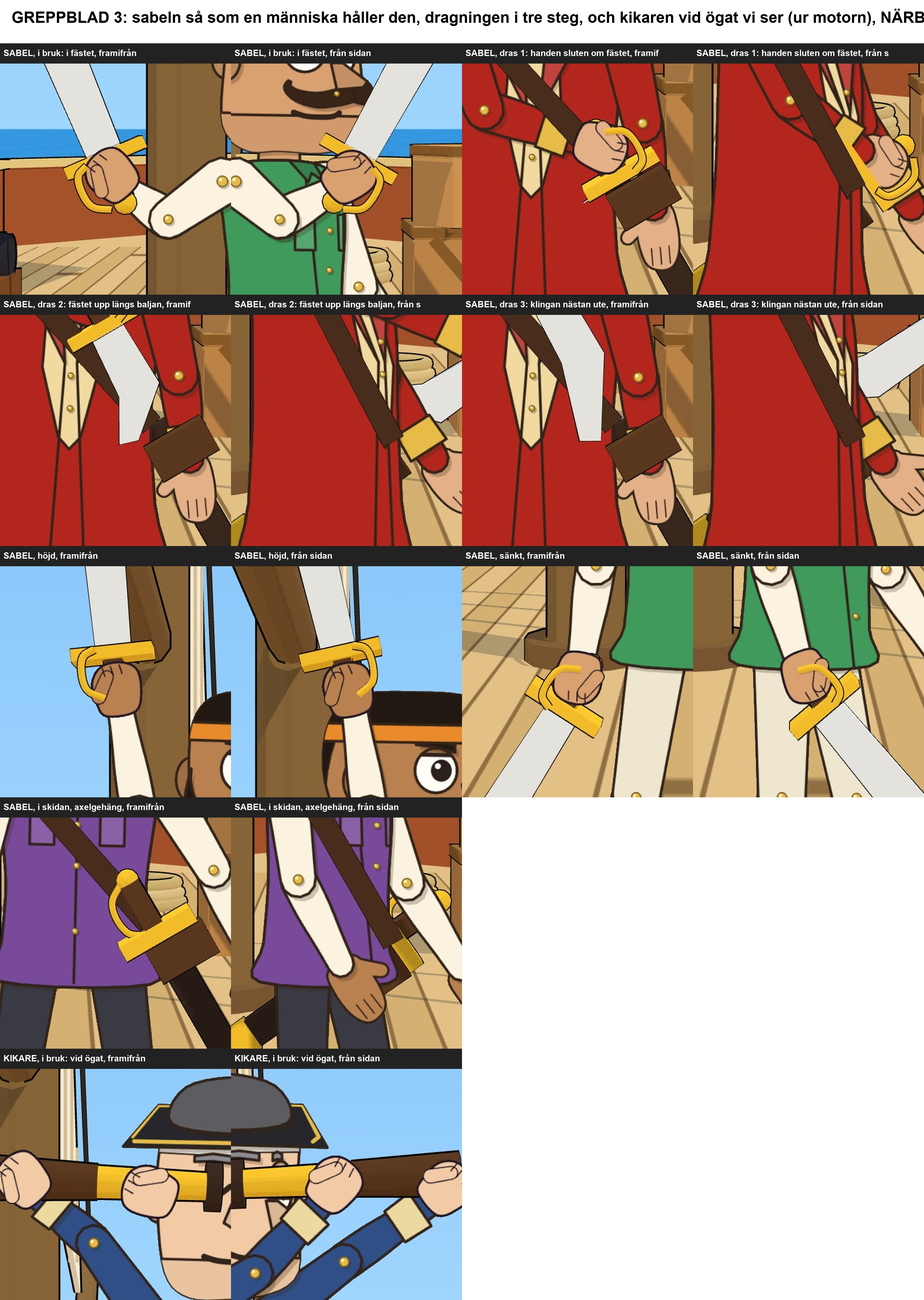
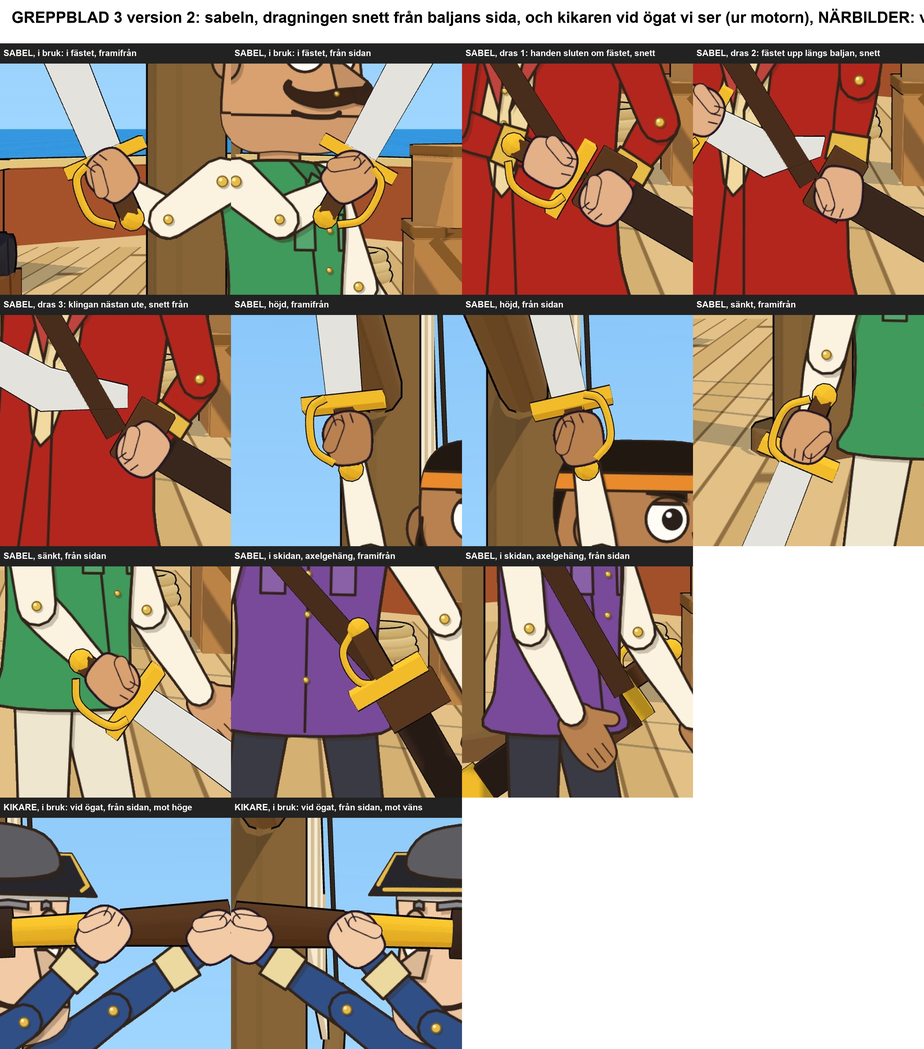
Grip sheet 3 version 2: the review's five points, each a rule in the shared code and a check in film_info grips
1. Spyglass: used only with the head turned to what he looks at (the front view is gone; the check rejects a figure seen from the
   front with the tube to his side). Drawing: seen from the front, an arm whose hand is at the face is drawn after the head, never
   behind it; an arm drawn behind the head or the body with its forearm hidden there is noted by the drawing, and the check fails
   any hand that holds something with such a forearm (the fist would float).
2./3. The draw: the other hand holds the scabbard below its throat and tips it toward level, the drawing hand comes up and forward
   along the sheath's line with the elbow lifted and the body turning and leaning back, the sabre lies on that line so the blade goes
   into the throat. Shown only at a slant from the scabbard's side; the check rejects a draw seen from the front (the hilt would
   come up past his face) or at the far hip (the blade would vanish into his body), a hand off the grip, the other hand off the
   scabbard, and a drawing hand within a fist's breadth of the face and beard.
4. A sabre's blade may not cross the outline of his legs in the picture (checked); the lowered sabre points down and forward.
5. The pommel shows beyond the fist with the knuckle bow fixed to it (grip lengthened to the drawn hand; checked for every use).
   The scabbard is wide enough to hide the blade's root (no sliver at the throat).
[…]

diff --git a/engine/src/craft/stage/grips.ts b/engine/src/craft/stage/grips.ts
@@ -6,7 +6,7 @@
 import * as THREE from "three";
 import type { Film, Cam, V3, Staged } from "./film";
 import { mix3 } from "./film";
-import { grip, palm, fingers, eyeOf, span, near, aside } from "./staging";
+import { grip, palm, fingers, eyeOf, span, near, aside, UNSEEN } from "./staging";
 import { figureCard, reachArm, pointArm, bareJoints } from "../world/people";
 import { rod, mesh, box, group } from "../world/kit";
 import type { Design } from "../designs/common";
@@ -24,7 +24,7 @@ export type Use = {
    *  (90 = straight up, -60 = down and forward) whatever the arm does */ turn?: number; level?: number;
   ok: Ok;
 };
-export type Prop = { name: string; uses: Record<string, Use>; /** a hilt with a guard and a knuckle bow: where the guard is along x, the middle of the bow, and how far the blade may turn off the forearm (degrees) */ hilt?: { guard: number; bow: [number, number]; turn: number } };
+export type Prop = { name: string; uses: Record<string, Use>; /** a hilt with a guard and a knuckle bow: where the guard is along x, the middle of the bow, and how far the blade may turn off the forearm (degrees) */ hilt?: { guard: number; bow: [number, number]; turn: number; /** where the pommel is along x: it shows beyond the fist, and the bow is fixed to it */ pommel: number } };
 const dot = (a: [number, number], b: [number, number]) => a[0] * b[0] + a[1] * b[1];
 const ang = (d: [number, number]) => (Math.atan2(d[1], d[0]) * 180) / Math.PI;
 const within = (lo: number, hi: number, what: string): Ok => (d) => (ang(d) >= lo && ang(d) <= hi ? null : `${what} (it points ${ang(d).toFixed(0)} degrees from level, allowed ${lo} to ${hi})`);
@@ -39,10 +39,10 @@ export const PISTOL: Prop = { name: "pistol", uses: {
 /** the sabre (props.ts sabre): held as a person holds one, the hand right behind the guard, the fingers round the grip, the knuckle bow
  *  over the outside of the fingers; the blade carries on along the forearm, the wrist only a little bent (never folded back). So
  *  every use turns the blade from the forearm, and the arm says where the blade points */
-export const SABRE: Prop = { name: "sabre", hilt: { guard: 0.06, bow: [0, -0.07], turn: 45 }, uses: {
+export const SABRE: Prop = { name: "sabre", hilt: { guard: 0.06, bow: [-0.01, -0.078], turn: 45, pommel: -0.104 }, uses: {
   ready: { arm: A(66, 30, 108, 24), turn: 32, ok: within(0, 90, "a sabre at the ready has its blade up and away from the body") },
   raised: { arm: A(160, 26, 184, 10), turn: 4, ok: within(55, 120, "a raised sabre points up") },
-  lowered: { arm: A(14, 14, 24, 8), turn: 24, ok: within(-100, -20, "a lowered sabre has its point down and forward") },
+  lowered: { arm: A(16, 12, 52, 8), turn: 10, ok: within(-100, -20, "a lowered sabre has its point down and forward, clear of his legs") },
   /** being drawn: the blade still down along the scabbard it comes out of (drawSabre) */
   draw: { arm: A(34, -24, 70, -70), level: -100, ok: within(-150, -55, "a sabre being drawn points down along its scabbard") },
   /** a cut: drawn back over the shoulder, then brought down through what it cuts */
@@ -89,7 +89,9 @@ const pic = (cam: Cam) => { const fx = cam.look[0] - cam.pos[0], fz = cam.look[2
 const unit = (v: [number, number]): [number, number] => { const n = Math.hypot(v[0], v[1]) || 1; return [v[0] / n, v[1] / n]; };
 const chest = (a: Staged) => mix3(a.joint("pelvis"), a.joint("neck"), 0.75);
 const wr = (s: Side) => (s === "L" ? "wrL" : "wrR") as "wrL", tp = (s: Side) => (s === "L" ? "tipL" : "tipR") as "tipL", el = (s: Side) => (s === "L" ? "elL" : "elR") as "elL", sh = (s: Side) => (s === "L" ? "shL" : "shR") as "shL";
-const fistR = (a: Staged, s: Side, cam: Cam) => 0.5 * Math.hypot(...pic(cam)(a.joint(wr(s)), a.joint(tp(s))));
+/** how far a closed fist reaches from its middle in the picture: half the hand's length as seen, but never less than the fist as
+ *  drawn (a hand seen end on is still a fist, not a dot) */
+const fistR = (a: Staged, s: Side, cam: Cam) => Math.max(0.5 * Math.hypot(...pic(cam)(a.joint(wr(s)), a.joint(tp(s)))), 0.026 * (a.h ?? 1.8));
 /** which way is away from the holder's body for a hand, in the picture: +1 = to the right, -1 = to the left. The side of his chest
  *  the hand is on; for a hand in front of his chest, the way he faces */
 const outward = (a: Staged, side: Side, cam: Cam) => { const P2 = pic(cam), h = (a.heading * Math.PI) / 180, face = P2([0, 0, 0], [Math.sin(h), 0, Math.cos(h)])[0], p = palm(a, side), off = P2(chest(a), p)[0];
@@ -121,8 +123,18 @@ export const wield = (into: THREE.Group, o: THREE.Object3D, P: Prop, use: string
 const hiltWrong = (o: THREE.Object3D, H: NonNullable<Prop["hilt"]>, a: Staged, side: Side, cam: Cam, s: number, seen: [number, number]): string | null => {
   const P2 = pic(cam), pm = palm(a, side), w = (x: number, y: number): V3 => { const q = new THREE.Vector3(x, y, 0).applyMatrix4(o.matrixWorld); return [q.x, q.y, q.z]; };
   o.updateMatrixWorld(true); const g = Math.hypot(...P2(pm, w(H.guard, 0))), r = fistR(a, side, cam), bow = P2(pm, w(H.bow[0], H.bow[1])), f = unit(P2(a.joint(el(side)), a.joint(wr(side))));
-  const turn = (Math.acos(Math.max(-1, Math.min(1, dot(f, seen)))) * 180) / Math.PI;
-  return g > r + 0.03 ? `the hand is ${(g * 100).toFixed(0)} cm from the guard (it belongs right behind it)` : dot(bow, [s * 0.7, -0.7]) <= 0 ? "the knuckle bow is on the palm side, not over the outside of the fingers" : turn > H.turn ? `the blade turns ${turn.toFixed(0)} degrees off the forearm (at most ${H.turn}: it carries on along the arm)` : null;
+  const turn = (Math.acos(Math.max(-1, Math.min(1, dot(f, seen)))) * 180) / Math.PI, pom = Math.hypot(...P2(pm, w(H.pommel, 0)));
+  return g > r + 0.03 ? `the hand is ${(g * 100).toFixed(0)} cm from the guard (it belongs right behind it)` : dot(bow, [s * 0.7, -0.7]) <= 0 ? "the knuckle bow is on the palm side, not over the outside of the fingers" : turn > H.turn ? `the blade turns ${turn.toFixed(0)} degrees off the forearm (at most ${H.turn}: it carries on along the arm)` : pom < r + 0.012 ? `the pommel is inside the fist (${(pom * 100).toFixed(1)} cm from the middle of the hand, the fist reaches ${(r * 100).toFixed(1)} cm; the knuckle bow would end at the side of the fist like a loose hook)` : bladeOverLegs(o, a, cam);
+};
+/** does the blade cross the outline of the legs in the picture (it would look as if it went through them)? */
+const bladeOverLegs = (o: THREE.Object3D, a: Staged, cam: Cam): string | null => {
+  const B = o.getObjectByName("blade") as THREE.Mesh | undefined; if (!B?.geometry) return null;
+  B.geometry.computeBoundingBox(); const bb = B.geometry.boundingBox!, P2 = pic(cam), w = (a.h ?? 1.8) * 0.036, base = a.joint("pelvis");
+  const leg = (s: Side): [number, number][] => (["hip", "kn", "an"] as const).map((n) => P2(base, a.joint(`${n}${s}` as "hipL")));
+  const segD = (p: [number, number], A: [number, number], C: [number, number]) => { const v: [number, number] = [C[0] - A[0], C[1] - A[1]], u = Math.max(0, Math.min(1, dot([p[0] - A[0], p[1] - A[1]], v) / (dot(v, v) || 1))); return Math.hypot(p[0] - A[0] - v[0] * u, p[1] - A[1] - v[1] * u); };
+  for (let i = 2; i <= 10; i++) { const q = new THREE.Vector3(bb.min.x + (bb.max.x - bb.min.x) * (i / 10), (bb.min.y + bb.max.y) / 2, 0).applyMatrix4(B.matrixWorld), p = P2(base, [q.x, q.y, q.z]);
+    for (const s of ["L", "R"] as Side[]) { const L = leg(s); if (segD(p, L[0], L[1]) < w || segD(p, L[1], L[2]) < w * 0.8) return "the blade crosses his legs in the picture (it would look as if it went through them)"; } }
+  return null;
 };
 /** the hands of a figure on a spyglass that points at `target`: the far hand is the one on the side he looks to */
 const spyHands = (shL: V3, shR: V3, eye: V3, target: V3, cam: Cam): { near: Side; far: Side } => { const P2 = pic(cam), d = unit(P2(eye, target)); return dot(P2(eye, shL), d) > dot(P2(eye, shR), d) ? { near: "R", far: "L" } : { near: "L", far: "R" }; };
@@ -137,7 +149,7 @@ export const spy = (into: THREE.Group, o: THREE.Object3D, a: Staged, cam: Cam, t
   const P2 = pic(cam), e0 = eyeOf(a, cam, target), H = spyHands(a.joint("shL"), a.joint("shR"), e0, target, cam), d = unit(P2(e0, target)), eye = aside(near(e0, cam, 0.07), cam, -d[0] * SPY.cup, -d[1] * SPY.cup), len = opt.len ?? 0.58;
   span(into, o, eye, aside(eye, cam, d[0], d[1]), cam, 0); fingers(into, a, opt.one ? [H.near] : [H.near, H.far], cam, 0.24);
   if (AUDIT.on) { const lie = (s: Side) => { const v = P2(e0, palm(a, s)); return { off: Math.abs(v[0] * d[1] - v[1] * d[0]), along: dot(v, d), r: fistR(a, s, cam) }; }, n1 = lie(H.near), n2 = opt.one ? null : lie(H.far);
-    const err = a.mark && !a.mark("eyeA") && !a.mark("eyeB") ? "the eye it is put to is not in view" : !(Math.abs(a.o.face?.shut ?? 0) > 0.5 && Math.sign(a.o.face?.shut ?? 0) === spyEye(cam, a.at, target, a.heading)) ? "the eye at the eyepiece is open beside it (face.shut = spyEye)" : n1.off > n1.r ? `the near hand is ${(n1.off * 100).toFixed(0)} cm off the tube` : n1.along < 0.08 || n1.along > len ? "the near hand is not on the tube" : n2 && n2.off > n2.r ? `the supporting hand is ${(n2.off * 100).toFixed(0)} cm off the tube` : n2 && (n2.along > len || n2.along < n1.along + 0.08) ? "the supporting hand is not further out on the tube" : null;
+    const err = Math.abs(facing(a.heading, cam)) < 0.35 && Math.abs(d[0]) > 0.5 ? "seen from the front with the tube to his side: a spyglass is used with his head turned to what he looks at" : a.mark && !a.mark("eyeA") && !a.mark("eyeB") ? "the eye it is put to is not in view" : !(Math.abs(a.o.face?.shut ?? 0) > 0.5 && Math.sign(a.o.face?.shut ?? 0) === spyEye(cam, a.at, target, a.heading)) ? "the eye at the eyepiece is open beside it (face.shut = spyEye)" : n1.off > n1.r ? `the near hand is ${(n1.off * 100).toFixed(0)} cm off the tube` : n1.along < 0.08 || n1.along > len ? "the near hand is not on the tube" : n2 && n2.off > n2.r ? `the supporting hand is ${(n2.off * 100).toFixed(0)} cm off the tube` : n2 && (n2.along > len || n2.along < n1.along + 0.08) ? "the supporting hand is not further out on the tube" : null;
     AUDIT.rows.push({ id: o.uuid, prop: "spyglass", use: "look", holder: `${a.name} ${opt.one ? H.near : `${H.near}+${H.far}`}`, err, at: mix3(e0, palm(a, opt.one ? H.near : H.far), 0.5) }); }
   return o;
 };
@@ -214,21 +226,33 @@ const strap = (into: THREE.Group, of: THREE.Object3D, a: V3, b: V3, cam: Cam, d:
 };
 type Body = { joint: (n: string) => V3; heading: number; at: V3 };
 /** where a scabbard at the hip hangs: its throat, the angle it lies at in the picture, and whether it is at the far hip */
-const scabbardAt = (a: Body, side: Side, cam: Cam) => {
+const scabbardAt = (a: Body, side: Side, cam: Cam, held = false) => {
   const P2 = pic(cam), h = (a.heading * Math.PI) / 180, fwd = P2([0, 0, 0], [Math.sin(h), 0, Math.cos(h)])[0], hip = a.joint(side === "L" ? "hipL" : "hipR"), other = a.joint(side === "L" ? "hipR" : "hipL");
   // seen from the side, a sabre at the far hip lies behind him: only the hilt shows in front of his belly and the sheath behind his legs
   const toCam = [cam.pos[0] - a.at[0], cam.pos[2] - a.at[2]], leftNear = Math.cos(h) * toCam[0] - Math.sin(h) * toCam[1] > 0, farHip = (side === "L") !== leftNear;
+  // held by the other hand for a draw (seen from the scabbard's side): tipped toward level, the throat forward, so that the line the
+  // hilt comes along passes in front of him, clear of his face and beard
   const front = Math.abs(fwd) < 0.35, out = P2(other, hip)[0] >= 0 ? 1 : -1, at: V3 = [hip[0], hip[1] + 0.07, hip[2]], p = near(front ? aside(at, cam, out * 0.11) : farHip ? aside(at, cam, Math.sign(fwd) * 0.11, -0.02) : at, cam, !front && farHip ? -0.08 : 0.04);
-  const lie = front ? -90 + out * 30 : (fwd > 0 ? -1 : 1) * (farHip ? 145 : 128) + (fwd > 0 ? 0 : 180);      // seen from the front it hangs slanting out from the hip, as a sabre on a baldric does
-  return { p, lie, front, farHip, out, at };
+  const lie = front ? -90 + out * 30 : (fwd > 0 ? -1 : 1) * (farHip ? 145 : held ? 150 : 128) + (fwd > 0 ? 0 : 180);      // seen from the front it hangs slanting out from the hip, as a sabre on a baldric does
+  // its line in the world, from the throat toward the tip (in the picture's plane)
+  const r = (lie * Math.PI) / 180, v = aside([0, 0, 0], cam, Math.cos(r), Math.sin(r)), d3 = new THREE.Vector3(...v).normalize();
+  /** a point `s` metres along the sheath's line from the throat (negative = up the hilt and beyond) */
+  const along = (s: number): V3 => [p[0] + d3.x * s, p[1] + d3.y * s, p[2] + d3.z * s];
+  return { p, lie, front, farHip, out, at, d3, along };
 };
+/** where a point in the world is seen on the plane of a figure's card (along the ray from the lens): where his hand must be to be
+ *  seen on it */
+const onCard = (at: V3, cam: Cam, q: V3): V3 => { const fx = cam.look[0] - cam.pos[0], fz = cam.look[2] - cam.pos[2], n = Math.hypot(fx, fz) || 1, nx = fx / n, nz = fz / n;
+  const dx = q[0] - cam.pos[0], dy = q[1] - cam.pos[1], dz = q[2] - cam.pos[2], s = ((at[0] - cam.pos[0]) * nx + (at[2] - cam.pos[2]) * nz) / (dx * nx + dz * nz || 1e-6);
+  return [cam.pos[0] + dx * s, cam.pos[1] + dy * s, cam.pos[2] + dz * s]; };
 /** where the grip of a sheathed sabre is (for the hand that draws it): 8 cm up the hilt from the scabbard's throat */
-export const hiltAt = (a: Body, side: Side, cam: Cam): V3 => { const S = scabbardAt(a, side, cam), r = (S.lie * Math.PI) / 180; return aside(S.p, cam, -0.08 * Math.cos(r), -0.08 * Math.sin(r)); };
+export const hiltAt = (a: Body, side: Side, cam: Cam, held = false): V3 => scabbardAt(a, side, cam, held).along(-0.08);
 /** the hilt of a sheathed sabre, for a figure that is not on the stage yet (to solve the arm that draws it) */
 export const hiltFor = (s: Stand, side: Side): V3 => hiltAt({ joint: bare(s), heading: s.heading, at: s.at }, side, s.cam);
-export const sheathed = (into: THREE.Group, o: THREE.Object3D, a: Staged, side: Side, cam: Cam, opt: { drawn?: boolean } = {}) => {
-  const S = scabbardAt(a as unknown as Body, side, cam), fx = cam.look[0] - cam.pos[0], fz = cam.look[2] - cam.pos[2];
+export const sheathed = (into: THREE.Group, o: THREE.Object3D, a: Staged, side: Side, cam: Cam, opt: { drawn?: boolean; /** held by the other hand for a draw */ held?: boolean } = {}) => {
+  const S = scabbardAt(a as unknown as Body, side, cam, opt.held), fx = cam.look[0] - cam.pos[0], fz = cam.look[2] - cam.pos[2];
   o.position.set(S.p[0], S.p[1], S.p[2]); o.rotation.set(0, Math.atan2(-fx, -fz), (S.lie * Math.PI) / 180);
+  if (opt.held) o.quaternion.premultiply(new THREE.Quaternion().setFromUnitVectors(new THREE.Vector3(1, 0, 0).applyQuaternion(o.quaternion), S.d3));
   o.traverse((c) => { if (c.userData.layer === "back") { c.userData.z0 ??= c.position.z; c.position.z = c.userData.z0 - (S.front || !S.farHip ? 0.14 : 0); } if (c.userData.hilt) c.visible = !opt.drawn; });
   // the baldric: over the other shoulder, across his chest, down to the frog that holds the scabbard
   const top = a.joint(sh(side === "L" ? "R" : "L"));
@@ -236,21 +260,44 @@ export const sheathed = (into: THREE.Group, o: THREE.Object3D, a: Staged, side: 
   if (AUDIT.on) AUDIT.rows.push({ id: o.uuid, prop: "sabre", use: opt.drawn ? "scabbard" : "sheathed", holder: "", err: null, at: S.at });
   into.add(o); return o;
 };
-/** A sabre drawn from its scabbard at the hip of `hip` by the other hand: k = 0, the hand closed on the hilt and the blade all inside;
- *  k = 1, the point just out of the throat. The hilt goes up and out along the sheath's own line, and only what is out of the sheath
- *  shows. `sab` = props.ts sabre, `scab` = props.ts scabbard (its hilt is hidden while the sabre is out of it) */
-export const drawSabre = (into: THREE.Group, sab: THREE.Object3D, scab: THREE.Object3D, a: Staged, hip: Side, cam: Cam, k: number) => {
-  const S = scabbardAt(a as unknown as Body, hip, cam), r = (S.lie * Math.PI) / 180, ax: [number, number] = [Math.cos(r), Math.sin(r)], hand: Side = hip === "L" ? "R" : "L";
-  sheathed(into, scab, a, hip, cam, { drawn: true });
-  const blade = sab.getObjectByName("blade"); grip(into, sab, a, hand, cam, ax, { d: S.front || !S.farHip ? 0.05 : -0.04, knuckle: Math.sign(ax[0]) || 1 }); if (blade) blade.scale.x = Math.max(0.001, Math.min(1, k));
-  if (AUDIT.on) { const P2 = pic(cam), hilt = hiltAt(a as unknown as Body, hip, cam), v = P2(hilt, palm(a, hand)), off = Math.abs(v[0] * ax[1] - v[1] * ax[0]);
-    AUDIT.rows.push({ id: sab.uuid, prop: "sabre", use: "draw", holder: `${a.name} ${hand}`, err: off > Math.max(fistR(a, hand, cam) * 1.5, 0.035) ? `the drawing hand is ${(off * 100).toFixed(0)} cm off the sheath's line` : null, at: palm(a, hand) }); }
+/** A sabre drawn from its scabbard at the hip of `hip`: the hand on that side holds the scabbard below its throat, the other hand
+ *  draws. k = 0, the hand closed on the hilt and the blade all inside; k = 1, the point just out of the throat. The hilt goes up and
+ *  forward along the sheath's own line and only what is out of the sheath shows. Shown only at a slant from the scabbard's side: from
+ *  the front the hilt would come up past his face (the real draw comes toward the lens), and at the far hip the blade would vanish
+ *  into his body. `sab` = props.ts sabre, `scab` =
+ *  props.ts scabbard (its hilt is hidden while the sabre is out of it) */
+export const drawSabre = (into: THREE.Group, sab: THREE.Object3D, scab: THREE.Object3D, a: Staged, hip: Side, cam: Cam, k: number, len = 0.6) => {
+  const S = scabbardAt(a as unknown as Body, hip, cam, true), r = (S.lie * Math.PI) / 180, ax: [number, number] = [Math.cos(r), Math.sin(r)], hand: Side = hip === "L" ? "R" : "L";
+  sheathed(into, scab, a, hip, cam, { drawn: true, held: true }); fingers(into, a, [hip], cam, 0.1 + depth(cam, onCard(a.at, cam, S.along(0.08)), S.along(0.08)));
+  // the sabre's grip k of the way out along the sheath's line, its blade pointing back down the line into the throat, and only what
+  // is out of the sheath showing; the fist is drawn in front of the grip wherever the grip is
+  const hilt = S.along(-0.08 - len * k), blade = sab.getObjectByName("blade");
+  grip(into, sab, a, hand, cam, ax, { d: 0.05, knuckle: Math.sign(ax[0]) || 1, fingers: false });
+  sab.quaternion.premultiply(new THREE.Quaternion().setFromUnitVectors(new THREE.Vector3(1, 0, 0).applyQuaternion(sab.quaternion), S.d3)); sab.position.set(...hilt);
+  if (blade) { blade.scale.x = Math.max(0.001, Math.min(1, k)); blade.visible = k > 0.03; }
+  fingers(into, a, [hand], cam, 0.12 + depth(cam, onCard(a.at, cam, hilt), hilt));
+  if (AUDIT.on) { const P2 = pic(cam), seen = onCard(a.at, cam, hilt), off = Math.hypot(...P2(seen, palm(a, hand))), held = Math.hypot(...P2(onCard(a.at, cam, S.along(0.08)), palm(a, hip)));
+    // his face as the picture shows it, with the beard: from below the chin (halfway down the neck) to the middle of the head, and
+    // round that line as far as the head and the beard are wide (half the head's height)
+    const pm = palm(a, hand), sk = a.joint("skull"), cw = a.joint("crown"), H = Math.hypot(...P2(sk, cw)), nk = P2(pm, mix3(a.joint("neck"), sk, 0.5)), cr = P2(pm, mix3(sk, cw, 0.5));
+    const v: [number, number] = [cr[0] - nk[0], cr[1] - nk[1]], u = Math.max(0, Math.min(1, -dot(nk, v) / (dot(v, v) || 1))), face = Math.hypot(nk[0] + v[0] * u, nk[1] + v[1] * u) - 0.5 * H - fistR(a, hand, cam);
+    const err = S.front ? "seen from the front a draw comes toward the lens and the hilt would come up past his face: show it at a slant from the scabbard's side"
+      : S.farHip ? "the draw is at the far hip, where the blade would vanish into his body: show it at a slant from the scabbard's side"
+      : off > fistR(a, hand, cam) * 0.6 ? `the drawing hand is ${(off * 100).toFixed(1)} cm from the grip it draws (on the sheath's line; at most ${(fistR(a, hand, cam) * 60).toFixed(1)} cm, inside the fist)`
+      : held > fistR(a, hip, cam) * 1.2 ? `the other hand is ${(held * 100).toFixed(0)} cm off the scabbard it holds` : face < 0.09 ? `the drawing hand comes within ${(Math.max(0, face) * 100).toFixed(0)} cm of his face (at least a fist's breadth)` : null;
+    AUDIT.rows.push({ id: sab.uuid, prop: "sabre", use: "draw", holder: `${a.name} ${hand}`, err, at: palm(a, hand) }); }
   return sab;
 };
-/** the arm that draws: the hand k of the way from the hilt (in the sheath) to where the point leaves the throat, along the sheath's line */
+/** how far a point is in front of a figure's card, toward the lens (metres) */
+const depth = (cam: Cam, card: V3, q: V3) => Math.max(0, Math.hypot(card[0] - cam.pos[0], card[1] - cam.pos[1], card[2] - cam.pos[2]) - Math.hypot(q[0] - cam.pos[0], q[1] - cam.pos[1], q[2] - cam.pos[2]));
+/** The arms of a draw: the hand on the scabbard's side holds the sheath below its throat; the other hand is k of the way from the hilt
+ *  (in the sheath) to where the point leaves the throat, along the sheath's line, with its elbow lifted and out as the hilt comes up */
 export const drawPose = (s: Stand, hip: Side, k: number, len = 0.6): Partial<Pose> => {
-  const body = { joint: bare(s), heading: s.heading, at: s.at }, S = scabbardAt(body, hip, s.cam), r = (S.lie * Math.PI) / 180;
-  return reach(s, hip === "L" ? "R" : "L", aside(hiltAt(body, hip, s.cam), s.cam, -Math.cos(r) * len * k, -Math.sin(r) * len * k));
+  const body = { joint: bare(s), heading: s.heading, at: s.at }, S = scabbardAt(body, hip, s.cam, true), r = (S.lie * Math.PI) / 180, hand: Side = hip === "L" ? "R" : "L";
+  const sp = { at: s.at, heading: s.heading, h: s.h }, base = (s.pose ?? {}) as Pose, to = onCard(s.at, s.cam, S.along(-0.08 - len * k));
+  const shH = body.joint(sh(hand)), o = Math.sign(pic(s.cam)(body.joint(sh(hip)), shH)[0]) || -Math.sign(facing(s.heading, s.cam)) || 1, elbow = aside(shH, s.cam, o * (0.1 + 0.12 * k), -0.3 + 0.24 * k);
+  const holdAt = onCard(s.at, s.cam, S.along(0.08)); void r;
+  return { [hand === "L" ? "armL" : "armR"]: reachArm(s.D, base, {}, sp, s.cam.pos, hand, to, 0.5, elbow), [hip === "L" ? "armL" : "armR"]: reachArm(s.D, base, {}, sp, s.cam.pos, hip, holdAt) } as Partial<Pose>;
 };
 
 // ---------------- two hands on one thing, and things on the shoulder ----------------
@@ -390,9 +437,10 @@ export const auditGrips = (film: Film, step = 0.1) => {
   const lensOf = new THREE.PerspectiveCamera(50, 1080 / 1920, 0.1, 900);
   try { for (const s of film.shots) { let prev = new Map<string, { holder: string; prop: string }>();
     for (let t = 0; t < s.b - s.a - 1e-6; t += step) {
-      AUDIT.rows = []; const cam = s.cam(t, t / (s.b - s.a)), g = new THREE.Group(), staged: Record<string, Staged> = {};
+      AUDIT.rows = []; UNSEEN.length = 0; const cam = s.cam(t, t / (s.b - s.a)), g = new THREE.Group(), staged: Record<string, Staged> = {};
       for (const a of s.cast(t, s.a + t)) { const p = figureCard(a.D, a.pose, a.o, { at: a.at, heading: a.heading, h: a.h }, cam.pos); staged[a.name] = { ...a, joint: p.joint, mesh: p.mesh, mark: p.mark }; }
       s.things?.(g, staged, t, s.a + t, cam); const now = new Map<string, { holder: string; prop: string }>(), at = `${s.id} at ${t.toFixed(1)} s`;
+      for (const u of new Set(UNSEEN)) bad.push(`${at}: ${u}: the hand holds something but its forearm is hidden behind his head or body (the fist would float)`);
       lensOf.fov = cam.fov; lensOf.position.set(...cam.pos); lensOf.lookAt(...cam.look); lensOf.updateProjectionMatrix(); lensOf.updateMatrixWorld(true);
       for (const r of AUDIT.rows) { now.set(r.id, { holder: r.holder, prop: r.prop }); if (r.holder) held++; if (r.err) bad.push(`${at}: ${r.holder}'s ${r.prop} (${r.use}): ${r.err}`);
         if (r.at) { const q = new THREE.Vector3(...r.at).project(lensOf); spots.push({ shot: s.id, frame: Math.round((s.a + t) * film.fps), prop: r.prop, use: r.use, holder: r.holder, x: Math.round((q.x * 0.5 + 0.5) * 1080), y: Math.round((0.5 - q.y * 0.5) * 1920) }); } }

diff --git a/engine/src/craft/cast.ts b/engine/src/craft/cast.ts
@@ -316,6 +316,8 @@ export const drawFingers = (L: Look) => (k: Ink, sk0: Sk, sides: Side[], whole?:
     const kind = whole?.[s0]; hand(k, W, len(sub(T, W)) > 6 ? angle(W, T) : angle(E, W), sk.P.hand, kind ?? "fist", L.skin, thumbFlip(sk, s), false, k.ol, "all"); }
   if (mir) k.g.restore();
 };
+/** is p inside the closed outline `poly` */
+const within = (poly: P2[], p: P2) => { let i = false; for (let a = 0, b = poly.length - 1; a < poly.length; b = a++) { const [xa, ya] = poly[a], [xb, yb] = poly[b]; if (ya > p[1] !== yb > p[1] && p[0] < ((xb - xa) * (p[1] - ya)) / (yb - ya) + xa) i = !i; } return i; };
 export const drawCast = (L: Look) => {
   const inner = drawTrue(L);
   return (k: Ink, sk: Sk, o: FigOpts) => {
@@ -323,6 +325,8 @@ export const drawCast = (L: Look) => {
     k.g.save(); k.g.scale(-1, 1);
     inner(k, solve(sk.P, swapPose(sk.pose), -sk.yaw), { ...o, handL: o.handR, handR: o.handL, face: o.face ? { ...o.face, gaze: o.face.gaze ? [-o.face.gaze[0], o.face.gaze[1]] : undefined } : undefined });
     k.g.restore();
+    // drawn as its mirror image, the drawing's left arm is the figure's right
+    const m = k.marks, hl = m.hidL, hr = m.hidR; delete m.hidL; delete m.hidR; if (hl) m.hidR = hl; if (hr) m.hidL = hr;
   };
 };
 const drawTrue = (L: Look) => (k: Ink, sk: Sk, o: FigOpts) => {
@@ -401,12 +405,18 @@ const drawTrue = (L: Look) => (k: Ink, sk: Sk, o: FigOpts) => {
   const top = L.rows[L.rows.length - 1][0];
   const chainDraw = () => { if (chainEnds && sk.cos > -0.05) { const e = chainEnds as { start: P2; bow: P2 }, end = S(-46, top * 0.8), bow: P2 = [Math.min(e.bow[0], e.start[0] + 2) * 1 + (e.bow[0] - e.start[0]) * 0, e.bow[1]]; chain(k, e.start, end, [bow[0] - sw * 16, (bow[1] + end[1]) / 2 - 6], 6, BRASS); k.dot(end[0], end[1], 3.4, "#7d5f1a"); } };
   const { near, far } = sk;
-  if (sideOn) { arm(far); leg(far); leg(near); torso(); head(); chainDraw(); arm(near); }
+  // the head as drawn (an ellipse round the middle of the skull) and the torso's outline: an arm drawn before them is hidden where it
+  // lies over them. A hand whose forearm is hidden that way is noted ("hidL", "hidR"): if it holds something, its fist would float
+  const hc = mid(sk.j.skull, sk.j.crown, 0.5), hw = Math.hypot(L.head.a * sk.cos, L.head.b * sk.sin), hh = L.head.H / 2, tor = outline();
+  const inHead = (p: P2) => ((p[0] - hc[0]) / hw) ** 2 + ((p[1] - hc[1]) / hh) ** 2 < 1, inTorso = (p: P2) => within(tor, p), inBody = (p: P2) => inHead(p) || inTorso(p);
+  const hid = (s: Side, by: (p: P2) => boolean) => { const W = sk.j[`wr${s}`]; if (by(W) && by(mid(sk.j[`el${s}`], W, 0.5))) k.mark(`hid${s}`, W[0], W[1]); };
+  if (sideOn) { hid(far, inBody); arm(far); leg(far); leg(near); torso(); head(); chainDraw(); arm(near); }
   else {
-    const late = (s: Side) => sk.z[`wr${s}`] - sk.z[`sh${s}`] > P.upper * 0.6;
+    // seen from the front, a hand at the face is in front of the face: its arm is drawn after the head, never behind it
+    const late = (s: Side) => sk.z[`wr${s}`] - sk.z[`sh${s}`] > P.upper * 0.6, atFace = (s: Side) => !back && inHead(sk.j[`wr${s}`]);
     leg(far); leg(near);
-    if (back) { for (const s of [far, near]) if (late(s)) arm(s); torso(); for (const s of [far, near]) if (!late(s)) arm(s); head(); }
-    else { torso(); for (const s of [far, near]) if (!late(s)) arm(s); head(); chainDraw(); for (const s of [far, near]) if (late(s)) arm(s); }
+    if (back) { for (const s of [far, near]) if (late(s)) { hid(s, inBody); arm(s); } torso(); for (const s of [far, near]) if (!late(s)) { hid(s, inHead); arm(s); } head(); }
+    else { torso(); for (const s of [far, near]) if (!late(s) && !atFace(s)) { hid(s, inHead); arm(s); } head(); chainDraw(); for (const s of [far, near]) if (late(s) || atFace(s)) arm(s); }
   }
   k.ink = ink0;
 };

diff --git a/engine/src/craft/shorts/gripSheet.ts b/engine/src/craft/shorts/gripSheet.ts
@@ -120,10 +120,14 @@ const shots3: Shot[] = [];
 const card3 = (id: string, figs: Fig[], thing: (g: THREE.Group, c: Staged[], cam: Cam) => void) => { const before = shots2.length; card2(id, figs, thing); const s = shots2.pop()!; void before; const a = shots3.length * LEN; shots3.push({ ...s, a, b: a + LEN }); };
 const SAB3 = once(() => noShade(sabre(0.6))), SCAB3 = once(() => noShade(scabbard(0.5))), GLASS3 = once(() => { const s = noShade(spyglass()); s.scale.setScalar(1.2); return s; });
 both((view, turn) => card3(`sabre-ready-${view}`, [{ D: PIRATE_D, h: 1.8, turn, pose: () => usePose(SABRE, "ready", "R"), hands: R1, face: { brow: -0.6 } }], (g, [a], cam) => wield(g, SAB3(), SABRE, "ready", a, "R", cam)));
-for (const [k, n] of [[0, 1], [0.45, 2], [0.85, 3]] as [number, number][]) both((view, turn) => card3(`sabre-draw${n}-${view}`, [{ D: CAPTAIN_D, h: 1.86, turn, pose: (s) => { const body = { twist: 8 + 14 * k, lean: -5 * k }; return { ...drawPose({ ...s, pose: body }, "L", k), ...body }; }, hands: R1, face: { brow: -0.8, lid: 0.1 } }], (g, [a], cam) => drawSabre(g, SAB3(), SCAB3(), a, "L", cam, k)));
+// the draw only where it can be read: at a slant from the scabbard's side (the hand crosses his belly to the hilt, the blade comes out
+// forward along the sheath, clear of his face)
+const DRAW_VIEWS: [string, number][] = [["scab", -28]];
+for (const [k, n] of [[0, 1], [0.45, 2], [0.85, 3]] as [number, number][]) for (const [view, turn] of DRAW_VIEWS) card3(`sabre-draw${n}-${view}`, [{ D: CAPTAIN_D, h: 1.86, turn, pose: (s) => { const body = { twist: 6 + 36 * k, lean: -10 * k }; return { ...drawPose({ ...s, pose: body }, "L", k), ...body }; }, hands: LR, face: { brow: -0.8, lid: 0.1 } }], (g, [a], cam) => drawSabre(g, SAB3(), SCAB3(), a, "L", cam, k));
 both((view, turn) => card3(`sabre-raised-${view}`, [{ D: PIRATE2_D, h: 1.9, turn, pose: () => usePose(SABRE, "raised", "R"), hands: R1, face: { brow: -0.8, mouth: 0.5 } }], (g, [a], cam) => wield(g, SAB3(), SABRE, "raised", a, "R", cam)));
 both((view, turn) => card3(`sabre-lowered-${view}`, [{ D: PIRATE_D, h: 1.8, turn, pose: () => usePose(SABRE, "lowered", "R"), hands: R1 }], (g, [a], cam) => wield(g, SAB3(), SABRE, "lowered", a, "R", cam)));
 both((view, turn) => card3(`sabre-sheathed-${view}`, [{ D: PIRATE2_D, h: 1.9, turn, pose: () => (turn ? {} : { armL: [[18, 30], [26, 22]] }) }], (g, [a], cam) => sheathed(g, SCAB3(), a, "L", cam)));
-both((view, turn, way) => { const seen: V3 = [X + way * 6, 1.95, Z + 1.2], dx = -way * 0.25;
-  card3(`spyglass-look-${view}`, [{ D: CUSTOMS_D, h: 1.9, dx, turn, pose: (s) => spyPose(s, seen), hands: LR, face: { shut: spyEye(V.cam, [X + dx, 0, Z], seen, V.toward(X + dx, Z, turn)), lid: 0.7, brow: -0.3 } }], (g, [a], cam) => spy(g, GLASS3(), a, cam, seen)); });
+// the spyglass only with his head turned to what he looks at: seen from the side, looking either way
+for (const [view, turn, way] of [["right", 58, 1], ["left", -58, -1]] as [string, number, number][]) { const seen: V3 = [X + way * 6, 1.95, Z + 1.2], dx = -way * 0.25;
+  card3(`spyglass-look-${view}`, [{ D: CUSTOMS_D, h: 1.9, dx, turn, pose: (s) => spyPose(s, seen), hands: LR, face: { shut: spyEye(V.cam, [X + dx, 0, Z], seen, V.toward(X + dx, Z, turn)), lid: 0.7, brow: -0.3 } }], (g, [a], cam) => spy(g, GLASS3(), a, cam, seen)); }
 export const GRIP_SHEET_3: Film = { ...GRIP_SHEET, id: "grip-sheet-3", seconds: shots3.length * LEN, shots: shots3 };

diff --git a/engine/src/craft/world/props.ts b/engine/src/craft/world/props.ts
@@ -329,8 +329,8 @@ function layered<T extends THREE.Object3D>(g: T, parts: Record<number, "back" | 
 // ---------------- props made to be held: the grip at the origin, the working end along +x, up along +y ----------------
 /** a sabre (a pirate's cutlass, a captain's hanger) to hold: the grip, a fist long, lies across the origin; the guard and the blade
  *  stand off along +x, the pommel along -x; the knuckle bow runs under the grip from guard to pommel (it lies over the fingers) */
-export const sabre = (blade = 0.62) => layered(group([mesh(box(0.1, 0.045, 0.045), "#5a3a22", { at: [0, 0, 0], shadow: false }), mesh(box(0.03, 0.2, 0.08), C.gold, { at: [0.06, 0, 0], line: 0.6, shadow: false }),
-  mesh(knuckleBow([[0.056, -0.034], [0.042, -0.062], [0, -0.07], [-0.04, -0.06], [-0.064, -0.02]]), C.gold, { line: 0.5, shadow: false }), mesh(ball(0.028, 8), C.gold, { at: [-0.062, 0, 0], line: 0.5, shadow: false }),
+export const sabre = (blade = 0.62) => layered(group([mesh(box(0.155, 0.045, 0.045), "#5a3a22", { at: [-0.022, 0, 0], shadow: false }), mesh(box(0.03, 0.2, 0.08), C.gold, { at: [0.06, 0, 0], line: 0.6, shadow: false }),
+  mesh(knuckleBow([[0.056, -0.034], [0.04, -0.066], [-0.01, -0.078], [-0.066, -0.07], [-0.102, -0.028]]), C.gold, { line: 0.5, shadow: false }), mesh(ball(0.03, 8), C.gold, { at: [-0.104, 0, 0], line: 0.5, shadow: false }),
   Object.assign(mesh(slab("sabre" + blade, [[0, -0.04], [blade * 0.64, -0.045], [blade, 0.07], [blade * 0.95, 0.115], [blade * 0.58, 0.058], [0, 0.046]], 0.022), "#e9eef4", { at: [0.074, 0, -0.011], line: 0.9, shadow: false }), { name: "blade" })]), { 2: "front" });
 /** a knuckle bow: one bent bar through the given points (x, y), from the guard round the outside of the fingers to the pommel,
  *  fixed at both ends */
@@ -351,7 +351,7 @@ export const bundleHeld = (r = 0.2, col = "#d9c08a") => { const sack = group([me
   sack.position.y = -r * 0.82; sack.name = "sack"; knot.name = "knot"; return group([sack, knot]); };
 /** a cutlass in its scabbard, to hang at a belt: the throat of the scabbard at the origin, the sheath along +x (`len` long), the hilt
  *  standing out of it along -x, a leather frog over the throat that takes the belt */
-export const scabbard = (len = 0.5) => layered(group([mesh(box(len, 0.075, 0.035), "#3a2a22", { at: [len / 2, 0, 0], line: 0.9, shadow: false }), mesh(box(0.07, 0.085, 0.045), C.gold, { at: [len - 0.03, 0, 0], line: 0.6, shadow: false }),
+export const scabbard = (len = 0.5) => layered(group([mesh(box(len, 0.095, 0.035), "#3a2a22", { at: [len / 2, 0.003, 0], line: 0.9, shadow: false }), mesh(box(0.07, 0.105, 0.045), C.gold, { at: [len - 0.03, 0, 0], line: 0.6, shadow: false }),
   mesh(box(0.09, 0.16, 0.05), "#5a3a22", { at: [0.06, 0.03, 0], line: 0.7, shadow: false }), mesh(box(0.14, 0.05, 0.05), "#5a3a22", { at: [-0.08, 0, 0], shadow: false }), mesh(box(0.04, 0.2, 0.08), C.gold, { at: [-0.01, 0, 0], line: 0.6, shadow: false }),
   mesh(knuckleBow([[-0.02, -0.034], [-0.04, -0.062], [-0.085, -0.072], [-0.13, -0.06], [-0.158, -0.02]]), C.gold, { line: 0.5, shadow: false }), mesh(ball(0.028, 8), C.gold, { at: [-0.158, 0, 0], line: 0.5, shadow: false })]), { 0: "back", 1: "back" }, [3, 4, 5, 6]);
 /** a flag as a painted cloth that hangs from its upper inner corner (the origin): w along +x, h down. kind: the black flag with a

diff --git a/engine/src/craft/world/people.ts b/engine/src/craft/world/people.ts
@@ -78,10 +78,12 @@ const searchArm = (cost: (q: number[]) => number): ArmPose => {
 /** The arm (upper arm and forearm, as in a pose) that puts a figure's hand on a point in the world, as seen from the lens: the
  *  middle of the closed fingers of `side` comes to lie over `target` in the picture. Use it to build a use pose once (both hands
  *  on a spyglass), not on every frame */
-export const reachArm = (D: Design, pose: Pose, o: FigOpts, sp: Spot, cam: number[], side: "L" | "R", target: [number, number, number], slide = 0.5): ArmPose => {
+export const reachArm = (D: Design, pose: Pose, o: FigOpts, sp: Spot, cam: number[], side: "L" | "R", target: [number, number, number], slide = 0.5, /** where the elbow should go, if the hand can be put on the point that way (a lifted elbow) */ elbow?: [number, number, number]): ArmPose => {
   const P = D.props(o.who ?? "sir"), mpu = (sp.h ?? 1.75) / bodyH(P), [x, y, z] = sp.at, az = Math.atan2(cam[0] - x, cam[2] - z), yaw = sp.heading - az / D2R;
   const tx = ((target[0] - x) * Math.cos(az) - (target[2] - z) * Math.sin(az)) / mpu, ty = -(target[1] - y) / mpu, key = side === "L" ? "armL" : "armR", wr = `wr${side}` as Joint, tip = `tip${side}` as Joint;
-  return searchArm((q) => { const sk = solve(P, { ...pose, [key]: [[q[0], q[1]], [q[2], q[3]]] }, yaw), W = sk.j[wr], T = sk.j[tip]; return Math.hypot(W[0] + (T[0] - W[0]) * slide - tx, W[1] + (T[1] - W[1]) * slide - ty); });
+  const el = `el${side}` as Joint, ex = elbow ? ((elbow[0] - x) * Math.cos(az) - (elbow[2] - z) * Math.sin(az)) / mpu : 0, ey = elbow ? -(elbow[1] - y) / mpu : 0;
+  return searchArm((q) => { const sk = solve(P, { ...pose, [key]: [[q[0], q[1]], [q[2], q[3]]] }, yaw), W = sk.j[wr], T = sk.j[tip], E = sk.j[el];
+    return Math.hypot(W[0] + (T[0] - W[0]) * slide - tx, W[1] + (T[1] - W[1]) * slide - ty) + (elbow ? 0.02 * Math.hypot(E[0] - ex, E[1] - ey) : 0); });
 };
 /** The arm that points straight at something: the whole arm, shoulder to hand, lies along `dir` in the picture (x to the right, y
  *  up) and is stretched as far as it is drawn (an aimed pistol, a pointing finger). `bend` 0..1 lets the elbow give a little */

diff --git a/engine/src/craft/stage/staging.ts b/engine/src/craft/stage/staging.ts
@@ -63,8 +63,11 @@ export const forearm = (a: Staged, side: "L" | "R", cam: Cam) => { const e = a.j
  *  layers: the palm and the thumb on the figure's card, behind the thing, and these fingers in front of it, so that the thing lies in
  *  the hand and not on it. `d` = how far in front of the figure's card (metres toward the lens); the layer is brought nearer along the
  *  lines of sight, so that the fingers stay exactly over the figure's own hand in the picture */
+/** the hands that hold something while their forearm is hidden behind the head or the body (the drawing notes it; grips.ts auditGrips reads it) */
+export const UNSEEN: string[] = [];
 export const fingers = (into: THREE.Group, a: Staged, sides: ("L" | "R")[], cam: Cam, d = 0.1, whole = false) => {
   if (a.spin !== undefined) return null;
+  for (const s of sides) if (a.mark?.(`hid${s}`)) UNSEEN.push(`${a.name} ${s}`);
   const m = fingersCard(a.D, a.pose, a.o, { at: a.at, heading: a.heading, h: a.h }, cam.pos, sides, a.seen, whole); if (!m) return null;
   const dist = Math.hypot(cam.pos[0] - m.position.x, cam.pos[1] - m.position.y, cam.pos[2] - m.position.z) || 1, k = 1 - d / dist, p0 = m.position.clone();
   m.position.set(cam.pos[0] + (m.position.x - cam.pos[0]) * k, cam.pos[1] + (m.position.y - cam.pos[1]) * k, cam.pos[2] + (m.position.z - cam.pos[2]) * k); m.scale.multiplyScalar(k);

diff --git a/engine/scripts/grip_sheet.py b/engine/scripts/grip_sheet.py
@@ -28,7 +28,7 @@ if mode == "sheet":
            "chop": "hugg: dragen bakåt", "struck": "hugg: genom", "carry": "buren", "haul": "halas", "fire": "mot kanonen", "hand": "i handen", "falling": "släppt, faller", "landed": "landad",
            "play": "spelar", "shoulder": "på axeln", "draw1": "dras 1: handen sluten om fästet", "draw2": "dras 2: fästet upp längs baljan", "draw3": "dras 3: klingan nästan ute"}
     USE2 = {("bucket", "raised"): "lyft", ("linstock", "ready"): "redo", ("cithara", "hold"): "i famnen", ("grapes", "hold"): "hålls upp", ("chest", "carry"): "buren av två i handtagen"}
-    VIEW = {"front": "framifrån", "side": "från sidan"}
+    VIEW = {"front": "framifrån", "side": "från sidan", "scab": "snett från baljans sida", "right": "från sidan, mot höger", "left": "från sidan, mot vänster"}
     first = {}
     for s in spots:
         if s["frame"] in have: first.setdefault(s["shot"], s)
